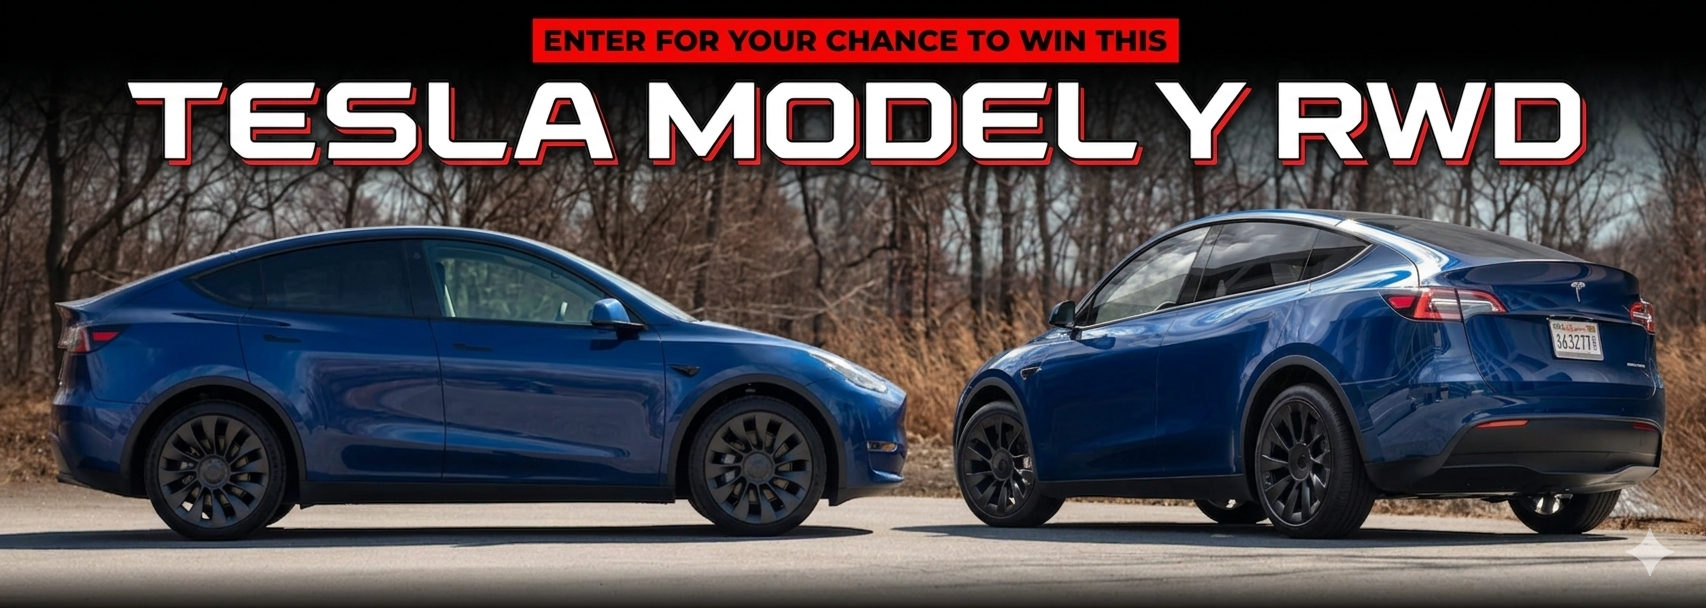
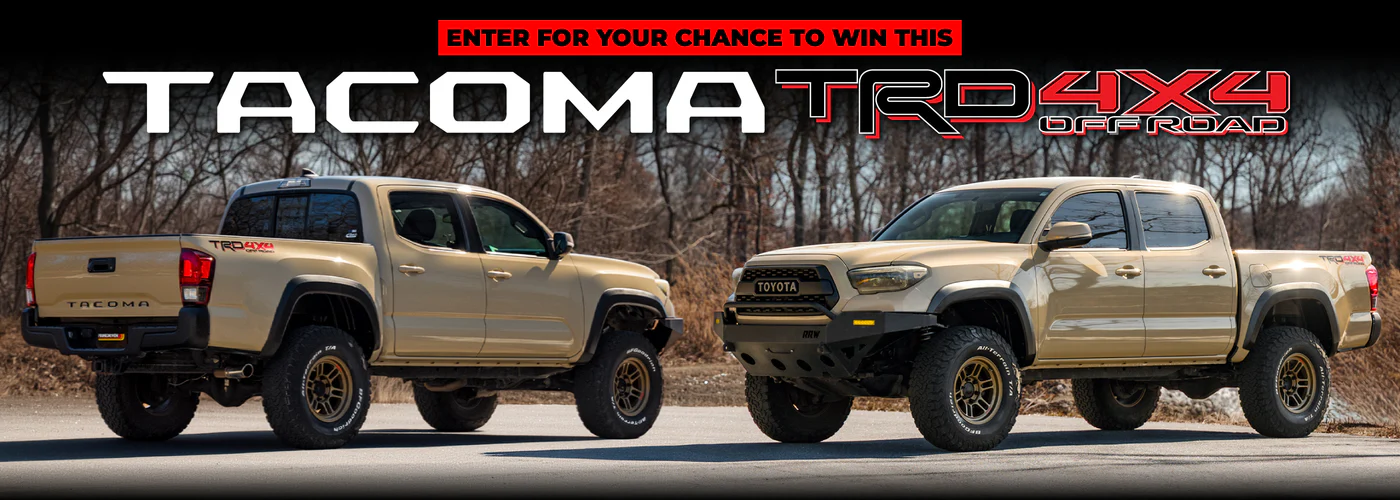
modified

diff --git a/templates/index.html b/templates/index.html
@@ -901,13 +901,13 @@
         max-width: 480px;
         margin: 2.5rem auto;
         padding: 2.5rem 2rem;
-        background: linear-gradient(135deg, #12121a 0%, #0f0f17 100%);
+        /* background: linear-gradient(135deg, #12121a 0%, #0f0f17 100%);
         border-radius: 20px;
         border: 1px solid rgba(255, 255, 255, 0.06);
         box-shadow:
           0 25px 50px -12px rgba(0, 0, 0, 0.6),
           0 0 0 1px rgba(255, 255, 255, 0.04) inset;
-        backdrop-filter: blur(10px);
+        backdrop-filter: blur(10px); */
         position: relative;
         overflow: hidden;
       }
@@ -1738,7 +1738,7 @@
                 <div
                   class="ai-progress-bar-label-aeusyakwryjnxegx0raigenblockf10a87f6m44ic"
                 >
-                  LIMITED TO ONLY 200 ENTRY SPOTS
+                  LIMITED TO ONLY 500 ENTRY SPOTS
                 </div>
 
                 <div
@@ -1765,7 +1765,7 @@
                   <p
                     class="mt-2 ai-progress-bar-description-line-aeusyakwryjnxegx0raigenblockf10a87f6m44ic"
                   >
-                    All Entries Close on April 7th @04:00pm
+                    All Entries Close on April 10th @04:00pm
                   </p>
 
                   <p
@@ -1966,9 +1966,9 @@
             >
               <div
                 style="
-                  background: #0f1626;
+                  background: #ffffff;
                   border: 0.5px solid #2a3a5a;
-                  border-radius: 16px;
+                  border-radius: 1px;
                   width: 100%;
                   max-width: 400px;
                   overflow: hidden;
@@ -1986,7 +1986,8 @@
                     padding: 18px 20px 14px;
                   "
                 >
-                  <span style="color: #fff; font-size: 19px; font-weight: 700"
+                  <span
+                    style="color: #000000; font-size: 19px; font-weight: 700"
                     >Check if you qualify</span
                   >
                   <span
@@ -2005,7 +2006,7 @@
                   <p
                     style="
                       margin: 0 0 4px;
-                      color: #e5eeff;
+                      color: #000000;
                       font-size: 15px;
                       font-weight: 500;
                     "
@@ -2029,7 +2030,7 @@
                     style="
                       background: #1a2338;
                       border: 0.5px solid #2a3a5a;
-                      border-radius: 12px;
+                      border-radius: 1px;
                       padding: 18px 16px;
                     "
                   >
@@ -2058,9 +2059,8 @@
                       id="entryForm"
                       style="
                         margin: 0;
-                        background: #1a2338;
-                        border: 1px solid #3a4a6b;
-                        border-radius: 4px;
+
+                        border-radius: 1px;
                         padding: 20px 16px 16px;
                         position: relative;
                         z-index: 1;
@@ -2155,7 +2155,7 @@
                           background: #c0392b;
                           color: #fff;
                           border: none;
-                          border-radius: 10px;
+                          border-radius: 1px;
                           cursor: pointer;
                           letter-spacing: 0.3px;
                         "
@@ -2187,7 +2187,7 @@
                       style="
                         background: #1a2338;
                         border: 0.5px solid #2a3a5a;
-                        border-radius: 12px;
+                        border-radius: 1px;
                         padding: 18px 16px;
                       "
                     >
@@ -2241,7 +2241,7 @@
                           background: #0f1626;
                           color: white;
                           border: 0.5px solid #3a4a6b;
-                          border-radius: 10px;
+                          border-radius: 1px;
                           outline: none;
                           box-sizing: border-box;
                           margin-bottom: 10px;
@@ -2260,7 +2260,7 @@
                           background: #0f1626;
                           color: #c8d0e0;
                           border: 0.5px solid #3a4a6b;
-                          border-radius: 10px;
+                          border-radius: 1px;
                           outline: none;
                           box-sizing: border-box;
                           margin-bottom: 12px;
@@ -2277,7 +2277,7 @@
                           background: #25d366;
                           color: #fff;
                           border: none;
-                          border-radius: 10px;
+                          border-radius: 1px;
                           cursor: pointer;
                           letter-spacing: 0.3px;
                         "
@@ -2993,7 +2993,7 @@
                     data-slide="1"
                   >
                     <img
-                      src="/assets/cdn/img/spec1.jpg?v=1772652039&amp;width=1200"
+                      src="/assets/cdn/img/spec1.png?v=1772652039&amp;width=1200"
                       alt=""
                       loading="lazy"
                       width="2048"
@@ -3006,7 +3006,7 @@
                     data-slide="2"
                   >
                     <img
-                      src="/assets/cdn/img/spec2.jpg?v=1772652039&amp;width=1200"
+                      src="/assets/cdn/img/spec2.png?v=1772652039&amp;width=1200"
                       alt=""
                       loading="lazy"
                       width="2048"
@@ -3019,7 +3019,7 @@
                     data-slide="3"
                   >
                     <img
-                      src="/assets/cdn/img/spec3.jpg?v=1772652039&amp;width=1200"
+                      src="/assets/cdn/img/spec3.png?v=1772652039&amp;width=1200"
                       alt=""
                       loading="lazy"
                       width="2048"
@@ -3032,7 +3032,7 @@
                     data-slide="4"
                   >
                     <img
-                      src="/assets/cdn/img/spec4.jpg?v=1772652039&amp;width=1200"
+                      src="/assets/cdn/img/spec4.png?v=1772652039&amp;width=1200"
                       alt=""
                       loading="lazy"
                       width="2048"
@@ -3085,17 +3085,11 @@
                       class="ai-split-slideshow-text-atgn6yvc1c3fknvn1vaigenblockb8202afuqnlkz"
                     >
                       <ul>
-                        <li>Tesla Model Y</li>
-                        <li>Rear-Wheel Drive (Single Motor)</li>
-                        <li>Power: ~295–300 hp.</li>
-                        <li>Torque: ~310 lb-ft</li>
+                        <li>Toyota Tacoma TRD Off-Road</li>
+                        <li>3.5L V6 (~278 hp, 265 lb-ft torque)</li>
+                        <li>4WD with rear locking differential</li>
+                        <li>Crawl control, terrain select, skid plates</li>
                         <li>Transmission: Single-speed automatic</li>
-                        <li>0–60 mph: ~5.4 – 6.8 sec</li>
-                        <li>Battery: ~60–64 kWh (LFP)</li>
-                        <li>Range (EPA est.): ~300–321 miles</li>
-                        <li>Fast Charging: ~10–80% in ~20–30 min</li>
-                        <li>Weight: ~4,060 lbs</li>
-                        <li>Cargo Space: up to ~74 cu ft</li>
                       </ul>
                     </div>
                   </div>
@@ -4205,8 +4199,8 @@
                       width="2048"
                       height="1152"
                       data-sizes="auto"
-                      src="/assets/cdn/img/spec1.jpg?crop=center&amp;height=11&amp;v=1772652124&amp;width=20"
-                      data-srcset="/assets/cdn/img/spec1.jpg?v=1772652124&amp;width=375%20375w,//primedriven.live/assets/cdn/img/spec1.jpg?v=1772652124&amp;width=2048%202048w"
+                      src="/assets/cdn/img/spec1.png?crop=center&amp;height=11&amp;v=1772652124&amp;width=20"
+                      data-srcset="/assets/cdn/img/spec1.png?v=1772652124&amp;width=375%20375w,//primedriven.live/assets/cdn/img/spec1.png?v=1772652124&amp;width=2048%202048w"
                       fetchpriority="auto"
                       alt=""
                       style="object-position: 50% 50%"
@@ -4251,8 +4245,8 @@
                       width="2048"
                       height="1152"
                       data-sizes="auto"
-                      src="/assets/cdn/img/spec1.jpg?crop=center&amp;height=11&amp;v=1772652124&amp;width=20"
-                      data-srcset="/assets/cdn/img/spec1.jpg?v=1772652124&amp;width=375%20375w,/assets/cdn/img/spec1.jpg?v=1772652124&amp;width=2048%202048w"
+                      src="/assets/cdn/img/spec1.png?crop=center&amp;height=11&amp;v=1772652124&amp;width=20"
+                      data-srcset="/assets/cdn/img/spec1.png?v=1772652124&amp;width=375%20375w,/assets/cdn/img/spec1.png?v=1772652124&amp;width=2048%202048w"
                       fetchpriority="auto"
                       alt=""
                       style="object-position: 50% 50%"
@@ -4303,8 +4297,8 @@
                       width="2048"
                       height="1152"
                       data-sizes="auto"
-                      src="/assets/cdn/img/spec5.jpg?crop=center&amp;height=11&amp;v=1772652135&amp;width=20"
-                      data-srcset="/assets/cdn/img/spec5.jpg?v=1772652135&amp;width=375%20375w,/assets/cdn/img/spec5.jpg?v=1772652135&amp;width=2048%202048w"
+                      src="/assets/cdn/img/spec5.png?crop=center&amp;height=11&amp;v=1772652135&amp;width=20"
+                      data-srcset="/assets/cdn/img/spec5.png?v=1772652135&amp;width=375%20375w,/assets/cdn/img/spec5.png?v=1772652135&amp;width=2048%202048w"
                       fetchpriority="auto"
                       alt=""
                       style="object-position: 50% 50%"
@@ -4349,8 +4343,8 @@
                       width="2048"
                       height="1152"
                       data-sizes="auto"
-                      src="/assets/cdn/img/spec5.jpg?crop=center&amp;height=11&amp;v=1772652135&amp;width=20"
-                      data-srcset="/assets/cdn/img/spec5.jpg?v=1772652135&amp;width=375%20375w,/assets/cdn/img/spec5.jpg?v=1772652135&amp;width=2048%202048w"
+                      src="/assets/cdn/img/spec5.png?crop=center&amp;height=11&amp;v=1772652135&amp;width=20"
+                      data-srcset="/assets/cdn/img/spec5.png?v=1772652135&amp;width=375%20375w,/assets/cdn/img/spec5.png?v=1772652135&amp;width=2048%202048w"
                       fetchpriority="auto"
                       alt=""
                       style="object-position: 50% 50%"
@@ -4401,8 +4395,8 @@
                       width="2048"
                       height="1152"
                       data-sizes="auto"
-                      src="/assets/cdn/img/spec2.jpg?crop=center&amp;height=11&amp;v=1772652113&amp;width=20"
-                      data-srcset="/assets/cdn/img/spec2.jpg?v=1772652113&amp;width=375%20375w,//primedriven.live/assets/cdn/img/spec2.jpg?v=1772652113&amp;width=2048%202048w"
+                      src="/assets/cdn/img/spec2.png?crop=center&amp;height=11&amp;v=1772652113&amp;width=20"
+                      data-srcset="/assets/cdn/img/spec2.png?v=1772652113&amp;width=375%20375w,//primedriven.live/assets/cdn/img/spec2.png?v=1772652113&amp;width=2048%202048w"
                       fetchpriority="auto"
                       alt=""
                       style="object-position: 50% 50%"
@@ -4448,8 +4442,8 @@
                       width="2048"
                       height="1152"
                       data-sizes="auto"
-                      src="/assets/cdn/img/spec2.jpg?crop=center&amp;height=11&amp;v=1772652113&amp;width=20"
-                      data-srcset="/assets/cdn/img/spec2.jpg?v=1772652113&amp;width=375%20375w,//primedriven.live/assets/cdn/img/spec2.jpg?v=1772652113&amp;width=2048%202048w"
+                      src="/assets/cdn/img/spec2.png?crop=center&amp;height=11&amp;v=1772652113&amp;width=20"
+                      data-srcset="/assets/cdn/img/spec2.png?v=1772652113&amp;width=375%20375w,//primedriven.live/assets/cdn/img/spec2.png?v=1772652113&amp;width=2048%202048w"
                       fetchpriority="auto"
                       alt=""
                       style="object-position: 50% 50%"
